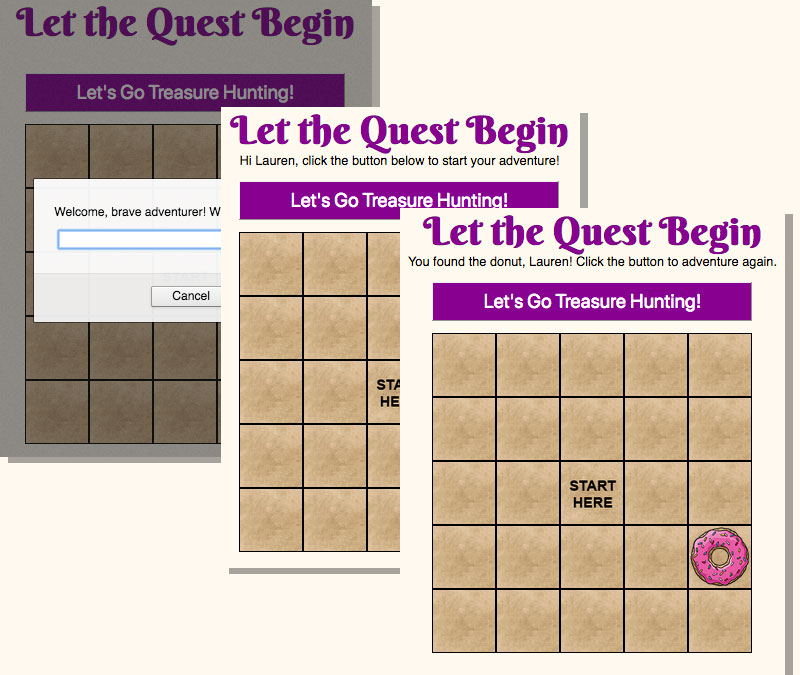
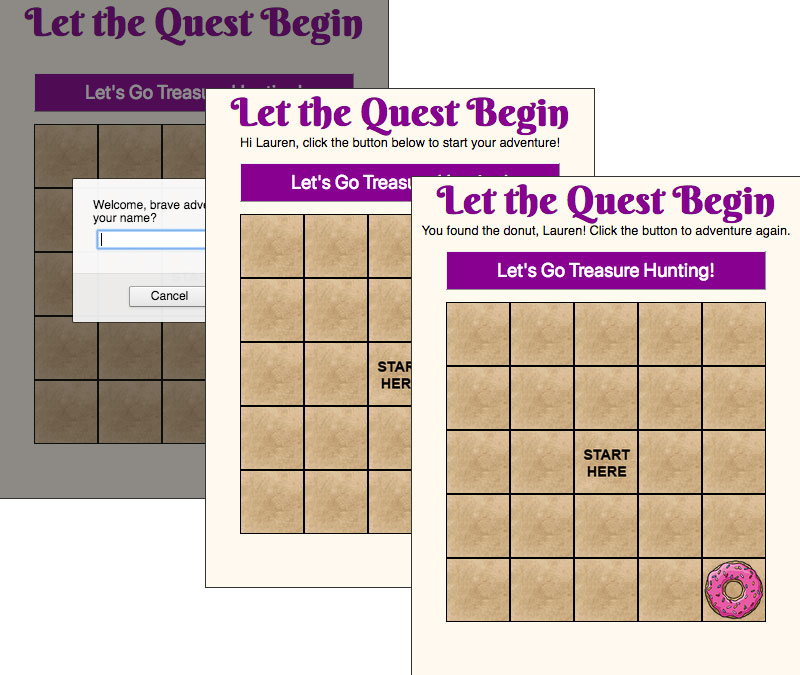
Update H3 style

diff --git a/js/portfolio.js b/js/portfolio.js
@@ -24,7 +24,7 @@ let slides = [
  },{
     title: "Adventure Game",
     screenshot: "images/adventure.jpg",
-    text: "For this project, I designed a Battleship style game with the hidden &lsquo;prize&rsquo; at a randomized location. I used conditional if/else statements to ensure that the prize is not located in the starting square, to notify the user when they try to move outside of the grid, and to let them know when they've won.",
+    text: "For this project, I designed a Battleship style game with the hidden &lsquo;prize&rsquo; at a randomized location. I used conditional statements to ensure that the prize is not located in the starting square, to notify the user when they try to move outside of the grid, and to let them know when they've won.",
     list: `<li>HTML5</li>
           <li>CSS3</li>
           <li>JavaScript</li>`,
@@ -58,7 +58,7 @@ let slides = [
           <li>CSS3</li>`,
     thumbId: "em1",
     project: "https://raw.githubusercontent.com/halleyl/portfolio/gh-pages/images/email1-full.jpg",
-    repo: "https://raw.githubusercontent.com/halleyl/portfolio/gh-pages/images/email1-full.jpg"
+    repo: ""
   },{
     title: "Barefoot Yoga Email",
     screenshot: "images/email2.jpg",
@@ -67,7 +67,7 @@ let slides = [
           <li>CSS3</li>`,
     thumbId: "em2",
     project: "https://raw.githubusercontent.com/halleyl/portfolio/gh-pages/images/email2-full.jpg",
-    repo: "https://raw.githubusercontent.com/halleyl/portfolio/gh-pages/images/email2-full.jpg"
+    repo: ""
   }
 ]
 
@@ -92,8 +92,8 @@ function drawSlide(x) {
   var imageLink = document.getElementById("imgLink")
   imageLink.href = slides[x].project
   // Load link to repo
-  var repo = document.getElementById("repoLink")
-  repo.href = slides[x].repo
+  var repo = document.getElementsByClassName("repoLink")
+  repo[0].href = slides[x].repo
 
   // Remove active state from any active thumbnails
   var inactiveThumb = document.getElementsByClassName("thumbact")[0]
@@ -104,13 +104,13 @@ function drawSlide(x) {
   
   // Remove Repo link for thumbs where it doesn't apply
   
-  var noRepo = document.getElementById("repoLink")
+  var noRepo = document.getElementsByClassName("repoLink")
   
   if(x == 5 || x == 6) {
-    noRepo.classList.add("hide")
+    noRepo[0].classList.add("hide")
     // console.log(noRepo.classList)
-  } else if(noRepo.classList.contains("hide")) {
-    noRepo.classList.remove("hide")
+  } else if(noRepo[0].classList.contains("hide")) {
+    noRepo[0].classList.remove("hide")
   }
 
   // Set active thumbnail image

diff --git a/portfolio.html b/portfolio.html
@@ -8,7 +8,7 @@
   <link rel="shortcut icon" type="image/x-icon" href="favicon.ico">
   <!-- Stylesheets -->
   <link href="https://fonts.googleapis.com/css?family=Press+Start+2P" rel="stylesheet">
-  <link href="https://fonts.googleapis.com/css?family=Montserrat:200,400" rel="stylesheet">
+  <link href="https://fonts.googleapis.com/css?family=Montserrat:200,400,600" rel="stylesheet">
   <link rel="stylesheet" href="https://use.fontawesome.com/releases/v5.1.0/css/all.css" integrity="sha384-lKuwvrZot6UHsBSfcMvOkWwlCMgc0TaWr+30HWe3a4ltaBwTZhyTEggF5tJv8tbt" crossorigin="anonymous">
   <link rel="stylesheet" href="styles/stylesheet.css" type="text/css">
   <link rel="stylesheet" href="styles/portfolio.css" type="text/css">
@@ -37,10 +37,7 @@
   <section>
     <h3>Portfolio</h3>
     <div id="thumbs">
-      <div class="thumb-container">
-        <img src="images/thumb-intro.jpg" alt="View Projects" class="intro">
-        <p class="thumb-caption blank">&nbsp;</p>
-      </div>
+      <p>Click the thumbnails below to view more details about my projects. I'm always working on something new, so check back for updates and additions!</p>
       <div class="thumb-container">
         <img src="images/thumb-fesc.jpg" alt="Florida Energy Systems Consortium" class="thumbact" id="fesc" onclick="drawSlide(0)">
         <p class="thumb-caption site">website</p>
@@ -84,7 +81,7 @@
           <li>Google Charts API</li>
         </ul>
         <a id="projLink" href='https://halleyl.github.io/florida-energy/index.html' target='blank'>View Project</a>
-        <a id="repoLink" href="https://github.com/halleyl/florida-energy/tree/gh-pages" target="_blank">View Repo</a>
+        <a class="repoLink" href="https://github.com/halleyl/florida-energy/tree/gh-pages" target="_blank">View Repo</a>
       </article>
     </figure>
   </section>

diff --git a/resume.html b/resume.html
@@ -8,7 +8,7 @@
   <link rel="shortcut icon" type="image/x-icon" href="favicon.ico">
   <!-- Stylesheets -->
   <link href="https://fonts.googleapis.com/css?family=Press+Start+2P" rel="stylesheet">
-  <link href="https://fonts.googleapis.com/css?family=Montserrat:200,400" rel="stylesheet">
+  <link href="https://fonts.googleapis.com/css?family=Montserrat:200,400,600" rel="stylesheet">
   <link rel="stylesheet" href="https://use.fontawesome.com/releases/v5.1.0/css/all.css" integrity="sha384-lKuwvrZot6UHsBSfcMvOkWwlCMgc0TaWr+30HWe3a4ltaBwTZhyTEggF5tJv8tbt" crossorigin="anonymous">
   <link rel="stylesheet" href="styles/stylesheet.css" type="text/css">
   <link rel="stylesheet" href="styles/resume.css" type="text/css">
@@ -59,8 +59,8 @@
         <li>Innovative, hard-working front end web developer with a knack for visual design and creating engaging user experiences.</li>
         <li>Nine years of professional experience hand-coding HTML and CSS.</li>
         <li>Deep and varied skills including graphic design, email marketing and project management.</li>
-        <li>Proven record of strong communication and organizational abilities.</li>
-        <li>Thrives in collaborative environment and excels in self-directed tasking.</li>
+        <li>Proven record of diligent communication and organizational abilities.</li>
+        <li>Deadline-driven, independent worker with strong collaborative skills and leadership experience.</li>
       </ul>
     </article>
 

diff --git a/about.html b/about.html
@@ -8,7 +8,7 @@
   <link rel="shortcut icon" type="image/x-icon" href="favicon.ico">
   <!-- Stylesheets -->
   <link href="https://fonts.googleapis.com/css?family=Press+Start+2P" rel="stylesheet">
-  <link href="https://fonts.googleapis.com/css?family=Montserrat:200,400" rel="stylesheet">
+  <link href="https://fonts.googleapis.com/css?family=Montserrat:200,400,600" rel="stylesheet">
   <link rel="stylesheet" href="https://use.fontawesome.com/releases/v5.1.0/css/all.css" integrity="sha384-lKuwvrZot6UHsBSfcMvOkWwlCMgc0TaWr+30HWe3a4ltaBwTZhyTEggF5tJv8tbt" crossorigin="anonymous">
   <link rel="stylesheet" href="styles/stylesheet.css" type="text/css">
   <link rel="stylesheet" href="styles/about.css" type="text/css">
